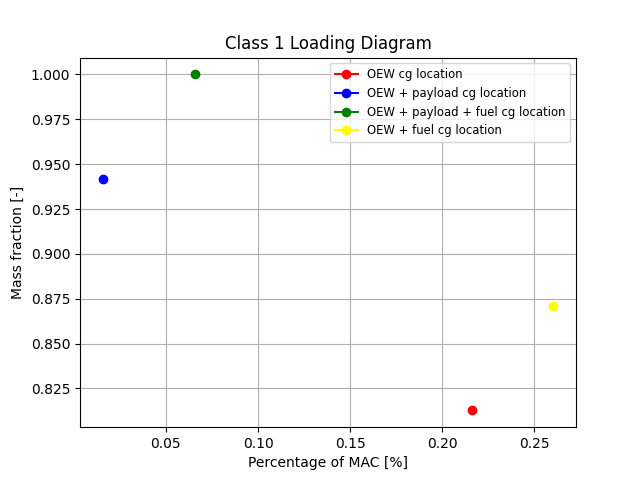
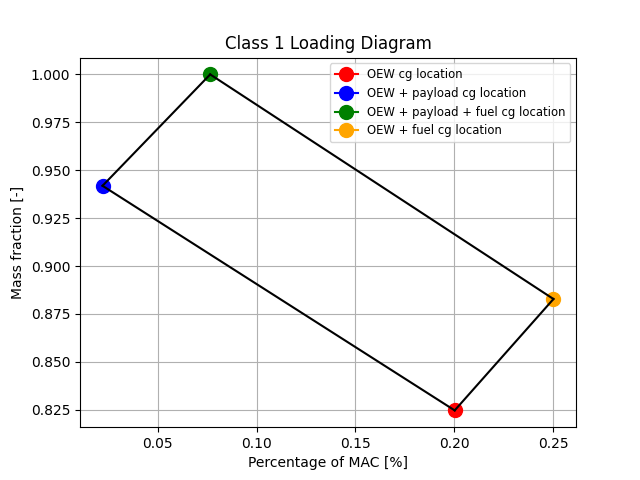
ruined some stuff

diff --git a/Aircraft_simulation/Sensitivity_Analysis.py b/Aircraft_simulation/Sensitivity_Analysis.py
@@ -1,0 +1,79 @@
+import types
+
+from Stability import  Stability
+from cg_calculator import CenterOfGravity
+# from V_n_diagram import VNDiagram
+import numpy as np
+import matplotlib.pyplot as plt
+import ast
+
+
+
+class Verification(Stability):
+    def __init__(self):
+        super().__init__()
+        self.script()
+        self.procedures()
+        self.sensitive_attribute = dict()
+        self.sensitive_iteration = 1
+        self.sensitivity_parameter = 3
+        self.starting_lemac = 25
+        self.iterativelemac = self.starting_lemac
+        self.percentage_change = 1
+
+    def iterationthings(self):
+        self.mainprocedures()
+        self.script()
+        self.procedures()
+
+    def tryloop(self,attr):
+        try:
+            self.iterationthings()
+        except:
+            self.reset()
+            self.iterativelemac += 1
+            self.lemac = self.iterativelemac
+            setattr(self, attr, value)
+            self.tryloop(attr)
+
+    def sensitivity(self):
+        global value
+        for attr in dir(self) :
+            if not attr.startswith('__') and \
+                    type(getattr(self, attr))!=types.MethodType  and \
+                    not type(getattr(self, attr)) is np.ndarray and not \
+                    type(getattr(self, attr)) is list and not\
+                    type(getattr(self, attr)) is None and not getattr(self, attr)==None \
+                    and not type(getattr(self, attr)) is dict and attr!= "iter" and not \
+                    type(getattr(self, attr)) is tuple and attr!= "meters_to_feet"  and \
+                    attr!= "kgs_to_pounds"  and attr!= "watts_to_horsepower" :
+                self.sensitive_iteration += 1
+                self.reset()
+                self.tryloop(attr)
+                originaloew = self.oew()
+                value = getattr(self, attr)
+                self.reset()
+                self.iterativelemac = self.starting_lemac
+                setattr(self, attr, value*(1+self.sensitivity_parameter/100))
+                self.tryloop(attr)
+                newoew = self.oew()
+                if abs(originaloew-newoew)/originaloew>=self.percentage_change/100:
+                    self.sensitive_attribute[f'{attr}'] = abs(originaloew-newoew)/(originaloew)
+
+
+    def sensitivity_table(self):
+        for i in range(1,20,2):
+            self.sensitivity_parameter = i
+            self.sensitivity()
+            print(f"for a sensitivity parameter of {i}, the following parameters are sensitive",self.sensitive_attribute)
+        pass
+
+    def convergencetest(self):
+
+        pass
+
+    def extremetest(self):
+
+        pass
+verification = Verification()
+verification.sensitivity_table()

diff --git a/Aircraft_simulation/Stability.py b/Aircraft_simulation/Stability.py
@@ -2,7 +2,6 @@ from cg_calculator import CenterOfGravity
 # from V_n_diagram import VNDiagram
 import numpy as np
 import matplotlib.pyplot as plt
-from Backup import AircraftBackup
 
 class Stability(CenterOfGravity):
     def __init__(self):
@@ -125,7 +124,7 @@ class Stability(CenterOfGravity):
         point2y = 0.5*self.diameter_fus
         x = np.linspace(0,self.length_fus[-1],100)
         y1 = np.tan(15*np.pi / 180)*(x-point1x)+point1y
-        y2 = np.tan(-70*np.pi / 180)*(x-point2x)+point2y
+        y2 = np.tan(-72*np.pi / 180)*(x-point2x)+point2y
         diff = abs(y1-y2)
         pointy= y1[diff == min(diff)][0]
         pointx = x[diff == min(diff)][0]
@@ -140,8 +139,7 @@ class Stability(CenterOfGravity):
         self.convergence()
         self.landinggearsizing()
         self.classiter2()
-        self.printing()
-        self.scissor(plot=True)
+        self.scissor()
 
     def convergenceupdate(self):
         self.script()
@@ -151,12 +149,15 @@ class Stability(CenterOfGravity):
         print('Fuselage Length =',np.round(self.length_fus[-1]/self.meters_to_feet, 2), " [m]")
         print("All the following values have the tip of the nose as reference:")
         print('Wing Lemac Position =',np.round(self.lemac/self.meters_to_feet, 2), " [m]")
-        print('OEW cg = ',np.round(self.locations['oew']/self.meters_to_feet, 2), " [m]")
+        print('OEW MAX cg = ',np.round(self.maximum/self.meters_to_feet, 2), " [m]")
         print('Nose landing gear positioning =', np.round(self.x_nlg_cg/self.meters_to_feet, 2), " [m]")
         print('Main landing gear positioning =', np.round(self.x_mlg/self.meters_to_feet, 2), " [m]")
         print('Main Landing gear vertical positioning',self.vertical_pos/self.meters_to_feet, "[m]" )
+        print('Tail Area ', self.surface_controlh/self.meters_to_feet**2 , ['m^2'])
+        print('Tail position ', (self.lh+self.locations['oew'])/self.meters_to_feet , ['m'])
+
 
 if __name__ == "__main__":
     stability = Stability()
     stability.procedures()
-    stability.printing1()
+    stability.printing()

diff --git a/Aircraft_simulation/mass_estimations.py b/Aircraft_simulation/mass_estimations.py
@@ -10,7 +10,6 @@ class Aircraft(WingAndPowerSizing):
         super().__init__()
 
         ##### Conversion factors ########
-
         self.pm_it = 0
         self.kg_to_pounds = 2.20462
         self.meters_to_feet = 3.28084
@@ -322,7 +321,7 @@ class Aircraft(WingAndPowerSizing):
 
         self.n_ee = 0.9
         self.n_pmad = 0.9
-        self.n_fc = 0.6
+        self.n_fc = 0.45
         self.n_comp = 0.7
         self.n_fuel_tank = 0.5
 
@@ -334,8 +333,8 @@ class Aircraft(WingAndPowerSizing):
 
         self.rho_pmad = 10000 * (self.watts_to_horsepower / self.kg_to_pounds)
         self.rho_comp = 2000 * (self.watts_to_horsepower / self.kg_to_pounds)
-        self.rho_ee = 2800 * (self.watts_to_horsepower / self.kg_to_pounds)
-        self.rho_fc = 4000 * (self.watts_to_horsepower / self.kg_to_pounds)
+        self.rho_ee  = 2800 * (self.watts_to_horsepower / self.kg_to_pounds)
+        self.rho_fc = 3250 * (self.watts_to_horsepower / self.kg_to_pounds)
 
         self.pmad_power = None
         self.engine_power = None
@@ -454,14 +453,6 @@ class Aircraft(WingAndPowerSizing):
 
         # Miscellaneous subsystems
         self.w_flightcontrols = 0.053 * self.length_fus[-1] ** (1.536) * self.b_w ** (0.371) * (self.limit_factor*self.limit_load * self.w_design * 10 ** -4) ** 0.8
-        #print('\n--------------------\n')
-        #print(self.length_fus[-1])
-        #print(self.b_w)
-        #print(self.limit_factor)
-        #print(self.limit_load)
-        #print(self.w_design)
-        #print(self.w_flightcontrols)
-        #print('\n--------------------\n')
         self.w_hydraulics = 0.001 * self.w_design
         self.w_electrical = 12.57 * (self.w_fuelsystem+self.w_avionics) ** 0.51
         self.w_avionics = 2.177*800**0.933  # fine

diff --git a/Aircraft_simulation/cg_calculator.py b/Aircraft_simulation/cg_calculator.py
@@ -118,7 +118,7 @@ class CenterOfGravity(Aircraft):
             plt.xlabel("Percentage of MAC [%]")
             plt.ylabel("Mass fraction [-]")
             plt.legend(loc="best", fontsize="small")
-
+            # plt.show()
             plt.savefig("cg")
             plt.close(1)
 
